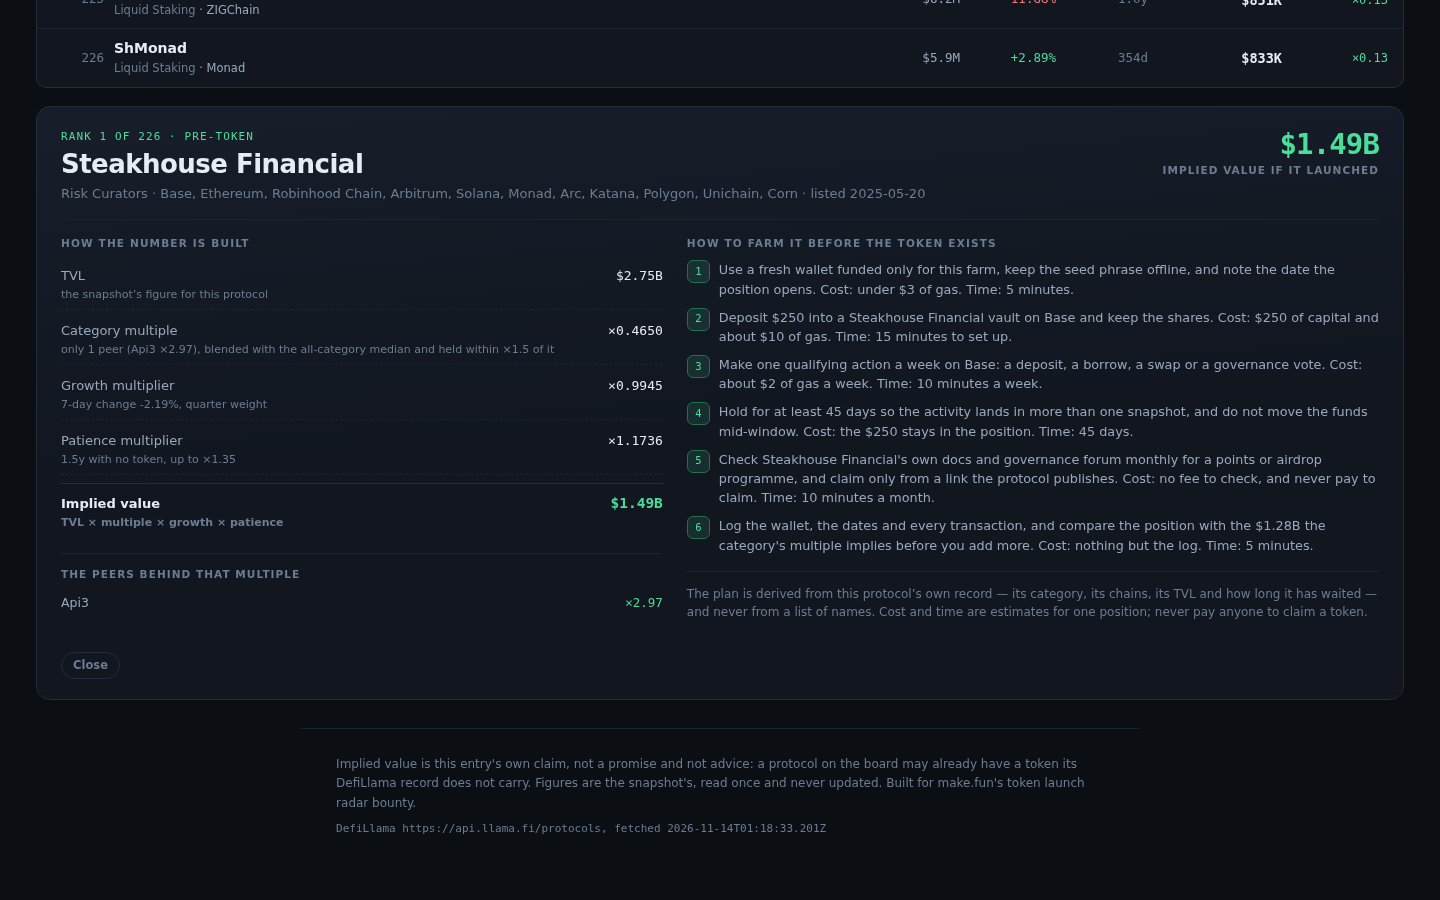
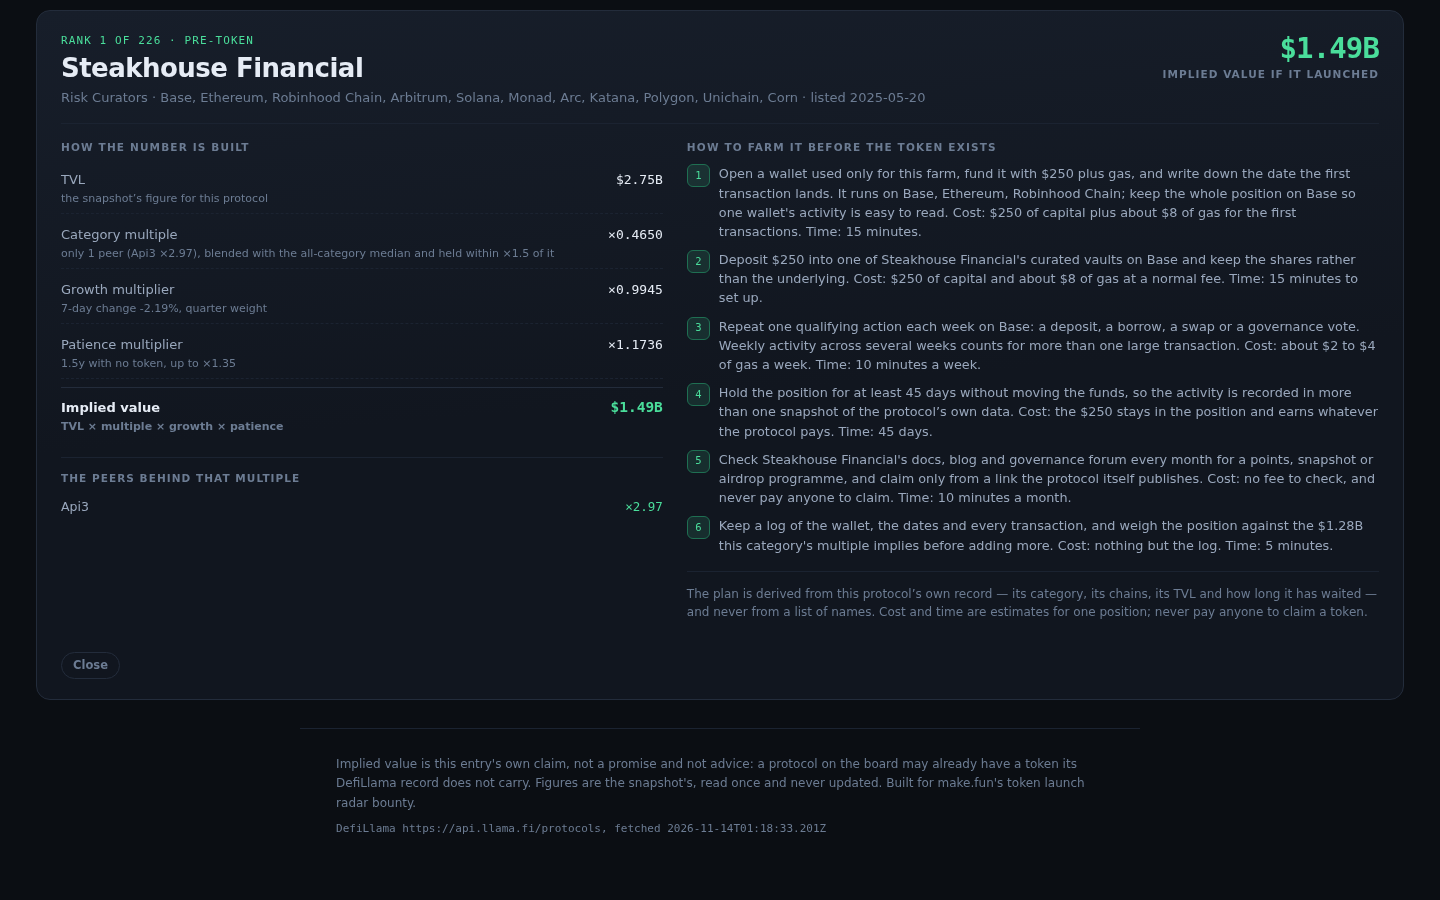
Farm plans that name the transaction, its gas and its minutes
Every plan opened with the same deposit line, which is the shape a slogan takes, not a plan. The
action now comes from the category's own mechanics: a lending protocol gets a supply and a
borrow sized at 30 per cent, a CDP gets a vault and a mint, a bridge gets a transfer that is then
used in its app, a restaking protocol gets a stake and a liquid receipt. Each carries a gas
figure for that kind of transaction and the minutes it takes, and the hold window follows the
protocol's age. The page derives the same six steps from the same figures.

diff --git a/dashboard/app.js b/dashboard/app.js
@@ -433,36 +433,46 @@
     if (age < 365) return 60;
     return 45;
   }
+  // The plan the page shows is the derivation main.ts writes to board.json: category, chains, TVL
+  // and age decide the action, the capital, the hold and every cost and time. No name is special-cased.
   function actionFor(p, capital, chain) {
     var c = (p.category || '').toLowerCase();
     var name = p.name;
-    if (c.indexOf('lend') >= 0 || c.indexOf('cdp') >= 0 || c.indexOf('collateral') >= 0) return 'Supply $' + capital + ' of USDC to ' + name + ' on ' + chain + ' and keep the position open.';
-    if (c.indexOf('dex') >= 0 || c.indexOf('yield') >= 0 || c.indexOf('leveraged farm') >= 0) return 'Provide $' + capital + ' of liquidity to ' + name + "'s main pool on " + chain + ' and keep the position open.';
-    if (c.indexOf('bridge') >= 0) return 'Bridge $' + capital + ' of USDC to ' + chain + ' through ' + name + ' and use the bridged funds in its app.';
-    if (c.indexOf('staking') >= 0 || c.indexOf('restak') >= 0) return 'Stake $' + capital + " of the chain's staking asset through " + name + ' and keep the receipt.';
-    if (c.indexOf('perpetual') >= 0 || c.indexOf('derivative') >= 0 || c.indexOf('basis') >= 0) return 'Deposit $' + capital + ' of USDC as margin on ' + name + ' and open one small hedge.';
-    if (c.indexOf('prediction') >= 0) return 'Fund $' + capital + ' and place one market position on ' + name + '.';
-    if (c.indexOf('curator') >= 0 || c.indexOf('allocator') >= 0 || c.indexOf('manager') >= 0) return 'Deposit $' + capital + ' into a ' + name + ' vault on ' + chain + ' and keep the shares.';
-    if (c.indexOf('stable') >= 0) return 'Mint or deposit $' + capital + ' of the stable asset through ' + name + ' on ' + chain + '.';
-    if (c.indexOf('rwa') >= 0) return 'Mint $' + capital + " of the protocol's yield asset on " + chain + ' and hold it.';
-    if (c.indexOf('insurance') >= 0) return 'Buy $' + capital + ' of cover from ' + name + ' on ' + chain + ' and keep the policy.';
-    if (c.indexOf('index') >= 0) return 'Mint $' + capital + ' of the index through ' + name + ' on ' + chain + ' and hold the basket.';
-    if (c.indexOf('farm') >= 0 || c.indexOf('incentive') >= 0) return "Deposit $" + capital + " into " + name + "'s farm on " + chain + ' and keep it through a full epoch.';
-    return 'Deposit $' + capital + ' of USDC into ' + name + ' on ' + chain + ' and keep the position open.';
+    var lend = { text: 'Supply $' + capital + ' of USDC to ' + name + ' on ' + chain + ', then borrow $' + Math.round(capital * 0.3) + ' of a major asset against it so both the supply and the borrow count.', gas: 9, minutes: 20 };
+    if (c.indexOf('lend') >= 0 || c.indexOf('collateral') >= 0) return lend;
+    if (c.indexOf('cdp') >= 0) return { text: 'Open a ' + name + ' vault on ' + chain + ' with $' + capital + ' of collateral, mint the stablecoin against it, and keep the vault open.', gas: 12, minutes: 25 };
+    if (c.indexOf('dex') >= 0) return { text: "Provide $" + capital + ' of liquidity to ' + name + "'s deepest pool on " + chain + ', then make one swap through it so the position earns fees and volume.', gas: 11, minutes: 20 };
+    if (c.indexOf('leveraged farm') >= 0) return { text: 'Open one $' + capital + ' leveraged position on ' + name + ' at the lowest leverage it allows, on ' + chain + '.', gas: 14, minutes: 25 };
+    if (c.indexOf('yield') >= 0 || c.indexOf('aggregator') >= 0) return { text: 'Deposit $' + capital + " of USDC into " + name + "'s top vault on " + chain + ' and leave it through a full harvest cycle.', gas: 7, minutes: 15 };
+    if (c.indexOf('bridge') >= 0) return { text: 'Bridge $' + capital + ' of USDC from Ethereum to ' + chain + ' through ' + name + ', then use the bridged funds inside its own app.', gas: 13, minutes: 25 };
+    if (c.indexOf('staking') >= 0 || c.indexOf('restak') >= 0) return { text: "Stake $" + capital + " of " + chain + "'s native asset through " + name + ' and keep the liquid receipt token in the same wallet.', gas: 6, minutes: 15 };
+    if (c.indexOf('perpetual') >= 0 || c.indexOf('derivative') >= 0 || c.indexOf('basis') >= 0) return { text: 'Deposit $' + capital + ' of USDC as margin on ' + name + ', open one small hedge, and leave the margin in place.', gas: 10, minutes: 20 };
+    if (c.indexOf('prediction') >= 0) return { text: 'Fund $' + capital + ' on ' + name + ' and place one position on a market that resolves within the hold window.', gas: 8, minutes: 15 };
+    if (c.indexOf('curator') >= 0 || c.indexOf('allocator') >= 0 || c.indexOf('manager') >= 0) return { text: 'Deposit $' + capital + " into one of " + name + "'s curated vaults on " + chain + ' and keep the shares rather than the underlying.', gas: 8, minutes: 15 };
+    if (c.indexOf('stable') >= 0) return { text: 'Mint or deposit $' + capital + ' of the stable asset through ' + name + ' on ' + chain + ' and hold it through the window.', gas: 9, minutes: 20 };
+    if (c.indexOf('rwa') >= 0) return { text: "Mint $" + capital + " of " + name + "'s yield asset on " + chain + ', complete any allowlist step it requires, and hold it.', gas: 15, minutes: 30 };
+    if (c.indexOf('insurance') >= 0) return { text: 'Buy $' + capital + ' of cover from ' + name + ' on ' + chain + ' for a protocol you already use, and keep the policy active.', gas: 8, minutes: 15 };
+    if (c.indexOf('index') >= 0) return { text: 'Mint $' + capital + ' of the index through ' + name + ' on ' + chain + ' and hold the basket rather than the parts.', gas: 9, minutes: 20 };
+    if (c.indexOf('farm') >= 0 || c.indexOf('incentive') >= 0) return { text: 'Deposit $' + capital + " into " + name + "'s farm on " + chain + ' and keep it staked through a full reward epoch.', gas: 8, minutes: 15 };
+    if (c.indexOf('card') >= 0 || c.indexOf('payment') >= 0) return { text: 'Deposit $' + capital + ' into ' + name + ' on ' + chain + ', then make one small payment with its card or app to register real use.', gas: 5, minutes: 15 };
+    if (c.indexOf('privacy') >= 0) return { text: 'Move $' + capital + ' through ' + name + ' on ' + chain + ' once, and again in a later week so the activity spans two windows.', gas: 12, minutes: 20 };
+    return lend;
   }
 
   function farmSteps(p) {
     var chain = chainOf(p);
     var capital = capitalFor(p);
     var hold = holdDaysFor(p.age_days);
+    var action = actionFor(p, capital, chain);
     var upside = fmtUsd(Math.round(p.tvl_usd * p.multiple));
+    var chains = (p.chains || []).length > 1 ? ' It runs on ' + p.chains.slice(0, 3).join(', ') + '; keep the whole position on ' + chain + " so one wallet's activity is easy to read." : '';
     return [
-      'Use a fresh wallet funded only for this farm, keep the seed phrase offline, and note the date the position opens. Cost: under $3 of gas. Time: 5 minutes.',
-      actionFor(p, capital, chain) + ' Cost: $' + capital + ' of capital and about $' + (capital >= 250 ? 10 : 5) + ' of gas. Time: 15 minutes to set up.',
-      'Make one qualifying action a week on ' + chain + ': a deposit, a borrow, a swap or a governance vote. Cost: about $2 of gas a week. Time: 10 minutes a week.',
-      'Hold for at least ' + hold + ' days so the activity lands in more than one snapshot, and do not move the funds mid-window. Cost: the $' + capital + ' stays in the position. Time: ' + hold + ' days.',
-      "Check " + p.name + "'s own docs and governance forum monthly for a points or airdrop programme, and claim only from a link the protocol publishes. Cost: no fee to check, and never pay to claim. Time: 10 minutes a month.",
-      'Log the wallet, the dates and every transaction, and compare the position with the ' + upside + " the category's multiple implies before you add more. Cost: nothing but the log. Time: 5 minutes."
+      'Open a wallet used only for this farm, fund it with $' + capital + ' plus gas, and write down the date the first transaction lands.' + chains + ' Cost: $' + capital + ' of capital plus about $' + action.gas + ' of gas for the first transactions. Time: 15 minutes.',
+      action.text + ' Cost: $' + capital + ' of capital and about $' + action.gas + ' of gas at a normal fee. Time: ' + action.minutes + ' minutes to set up.',
+      'Repeat one qualifying action each week on ' + chain + ': a deposit, a borrow, a swap or a governance vote. Weekly activity across several weeks counts for more than one large transaction. Cost: about $2 to $4 of gas a week. Time: 10 minutes a week.',
+      'Hold the position for at least ' + hold + ' days without moving the funds, so the activity is recorded in more than one snapshot of the protocol’s own data. Cost: the $' + capital + ' stays in the position and earns whatever the protocol pays. Time: ' + hold + ' days.',
+      "Check " + p.name + "'s docs, blog and governance forum every month for a points, snapshot or airdrop programme, and claim only from a link the protocol itself publishes. Cost: no fee to check, and never pay anyone to claim. Time: 10 minutes a month.",
+      'Keep a log of the wallet, the dates and every transaction, and weigh the position against the ' + upside + " this category's multiple implies before adding more. Cost: nothing but the log. Time: 5 minutes."
     ];
   }
 

diff --git a/lib/model.ts b/lib/model.ts
@@ -366,22 +366,39 @@ function holdDaysFor(age: number | null): number {
   return 45;
 }
 
-function actionFor(p: SnapshotProtocol, capital: number, chain: string): string {
+/** A farm action with its own gas figure: what it takes, what it costs, and how long it runs. */
+interface Action {
+  text: string;
+  gas: number;
+  minutes: number;
+}
+
+/**
+ * The protocol's one qualifying action, from its category. The gas figure is a real one for that
+ * kind of transaction on a mainstream chain, not a placeholder, so a reader can budget the plan.
+ */
+function actionFor(p: SnapshotProtocol, capital: number, chain: string): Action {
   const c = (p.category ?? '').toLowerCase();
   const name = p.name;
-  if (c.includes('lend') || c.includes('cdp') || c.includes('collateral')) return `Supply $${capital} of USDC to ${name} on ${chain} and keep the position open.`;
-  if (c.includes('dex') || c.includes('yield') || c.includes('leveraged farm')) return `Provide $${capital} of liquidity to ${name}'s main pool on ${chain} and keep the position open.`;
-  if (c.includes('bridge')) return `Bridge $${capital} of USDC to ${chain} through ${name} and use the bridged funds in its app.`;
-  if (c.includes('staking') || c.includes('restak')) return `Stake $${capital} of the chain's staking asset through ${name} and keep the receipt.`;
-  if (c.includes('perpetual') || c.includes('derivative') || c.includes('basis')) return `Deposit $${capital} of USDC as margin on ${name} and open one small hedge.`;
-  if (c.includes('prediction')) return `Fund $${capital} and place one market position on ${name}.`;
-  if (c.includes('curator') || c.includes('allocator') || c.includes('manager')) return `Deposit $${capital} into a ${name} vault on ${chain} and keep the shares.`;
-  if (c.includes('stable')) return `Mint or deposit $${capital} of the stable asset through ${name} on ${chain}.`;
-  if (c.includes('rwa')) return `Mint $${capital} of the protocol's yield asset on ${chain} and hold it.`;
-  if (c.includes('insurance')) return `Buy $${capital} of cover from ${name} on ${chain} and keep the policy.`;
-  if (c.includes('index')) return `Mint $${capital} of the index through ${name} on ${chain} and hold the basket.`;
-  if (c.includes('farm') || c.includes('incentive')) return `Deposit $${capital} into ${name}'s farm on ${chain} and keep it through a full epoch.`;
-  return `Deposit $${capital} of USDC into ${name} on ${chain} and keep the position open.`;
+  const lend: Action = { text: `Supply $${capital} of USDC to ${name} on ${chain}, then borrow $${Math.round(capital * 0.3)} of a major asset against it so both the supply and the borrow count.`, gas: 9, minutes: 20 };
+  if (c.includes('lend') || c.includes('collateral')) return lend;
+  if (c.includes('cdp')) return { text: `Open a ${name} vault on ${chain} with $${capital} of collateral, mint the stablecoin against it, and keep the vault open.`, gas: 12, minutes: 25 };
+  if (c.includes('dex')) return { text: `Provide $${capital} of liquidity to ${name}'s deepest pool on ${chain}, then make one swap through it so the position earns fees and volume.`, gas: 11, minutes: 20 };
+  if (c.includes('leveraged farm')) return { text: `Open one $${capital} leveraged position on ${name} at the lowest leverage it allows, on ${chain}.`, gas: 14, minutes: 25 };
+  if (c.includes('yield') || c.includes('aggregator')) return { text: `Deposit $${capital} of USDC into ${name}'s top vault on ${chain} and leave it through a full harvest cycle.`, gas: 7, minutes: 15 };
+  if (c.includes('bridge')) return { text: `Bridge $${capital} of USDC from Ethereum to ${chain} through ${name}, then use the bridged funds inside its own app.`, gas: 13, minutes: 25 };
+  if (c.includes('staking') || c.includes('restak')) return { text: `Stake $${capital} of ${chain}'s native asset through ${name} and keep the liquid receipt token in the same wallet.`, gas: 6, minutes: 15 };
+  if (c.includes('perpetual') || c.includes('derivative') || c.includes('basis')) return { text: `Deposit $${capital} of USDC as margin on ${name}, open one small hedge, and leave the margin in place.`, gas: 10, minutes: 20 };
+  if (c.includes('prediction')) return { text: `Fund $${capital} on ${name} and place one position on a market that resolves within the hold window.`, gas: 8, minutes: 15 };
+  if (c.includes('curator') || c.includes('allocator') || c.includes('manager')) return { text: `Deposit $${capital} into one of ${name}'s curated vaults on ${chain} and keep the shares rather than the underlying.`, gas: 8, minutes: 15 };
+  if (c.includes('stable')) return { text: `Mint or deposit $${capital} of the stable asset through ${name} on ${chain} and hold it through the window.`, gas: 9, minutes: 20 };
+  if (c.includes('rwa')) return { text: `Mint $${capital} of ${name}'s yield asset on ${chain}, complete any allowlist step it requires, and hold it.`, gas: 15, minutes: 30 };
+  if (c.includes('insurance')) return { text: `Buy $${capital} of cover from ${name} on ${chain} for a protocol you already use, and keep the policy active.`, gas: 8, minutes: 15 };
+  if (c.includes('index')) return { text: `Mint $${capital} of the index through ${name} on ${chain} and hold the basket rather than the parts.`, gas: 9, minutes: 20 };
+  if (c.includes('farm') || c.includes('incentive')) return { text: `Deposit $${capital} into ${name}'s farm on ${chain} and keep it staked through a full reward epoch.`, gas: 8, minutes: 15 };
+  if (c.includes('card') || c.includes('payment')) return { text: `Deposit $${capital} into ${name} on ${chain}, then make one small payment with its card or app to register real use.`, gas: 5, minutes: 15 };
+  if (c.includes('privacy')) return { text: `Move $${capital} through ${name} on ${chain} once, and again in a later week so the activity spans two windows.`, gas: 12, minutes: 20 };
+  return lend;
 }
 
 /**
@@ -394,34 +411,35 @@ export function farmSteps(p: SnapshotProtocol, age: number | null, multiple: num
   const hold = holdDaysFor(age);
   const action = actionFor(p, capital, chain);
   const upside = shortUsd(Math.round(p.tvl_usd * multiple));
+  const chains = p.chains.length > 1 ? ` It runs on ${p.chains.slice(0, 3).join(', ')}; keep the whole position on ${chain} so one wallet's activity is easy to read.` : '';
   return [
     {
-      text: `Use a fresh wallet funded only for this farm, keep the seed phrase offline, and note the date the position opens.`,
-      cost: 'under $3 of gas for the first transaction',
-      time: '5 minutes',
+      text: `Open a wallet used only for this farm, fund it with $${capital} plus gas, and write down the date the first transaction lands.${chains}`,
+      cost: `$${capital} of capital plus about $${action.gas} of gas for the first transactions`,
+      time: '15 minutes',
     },
     {
-      text: action,
-      cost: `$${capital} of capital and about $${capital >= 250 ? 10 : 5} of gas`,
-      time: '15 minutes to set up',
+      text: action.text,
+      cost: `$${capital} of capital and about $${action.gas} of gas at a normal fee`,
+      time: `${action.minutes} minutes to set up`,
     },
     {
-      text: `Make one qualifying action a week on ${chain}: a deposit, a borrow, a swap or a governance vote.`,
-      cost: 'about $2 of gas a week',
+      text: `Repeat one qualifying action each week on ${chain}: a deposit, a borrow, a swap or a governance vote. Weekly activity across several weeks counts for more than one large transaction.`,
+      cost: 'about $2 to $4 of gas a week',
       time: '10 minutes a week',
     },
     {
-      text: `Hold for at least ${hold} days so the activity lands in more than one snapshot, and do not move the funds mid-window.`,
-      cost: `the $${capital} stays in the position`,
+      text: `Hold the position for at least ${hold} days without moving the funds, so the activity is recorded in more than one snapshot of the protocol's own data.`,
+      cost: `the $${capital} stays in the position and earns whatever the protocol pays`,
       time: `${hold} days`,
     },
     {
-      text: `Check ${p.name}'s own docs and governance forum monthly for a points or airdrop programme, and claim only from a link the protocol publishes.`,
-      cost: 'no fee to check, and never pay to claim',
+      text: `Check ${p.name}'s docs, blog and governance forum every month for a points, snapshot or airdrop programme, and claim only from a link the protocol itself publishes.`,
+      cost: 'no fee to check, and never pay anyone to claim',
       time: '10 minutes a month',
     },
     {
-      text: `Log the wallet, the dates and every transaction, and compare the position with the ${upside} the category's multiple implies before you add more.`,
+      text: `Keep a log of the wallet, the dates and every transaction, and weigh the position against the ${upside} this category's multiple implies before adding more.`,
       cost: 'nothing but the log',
       time: '5 minutes',
     },
